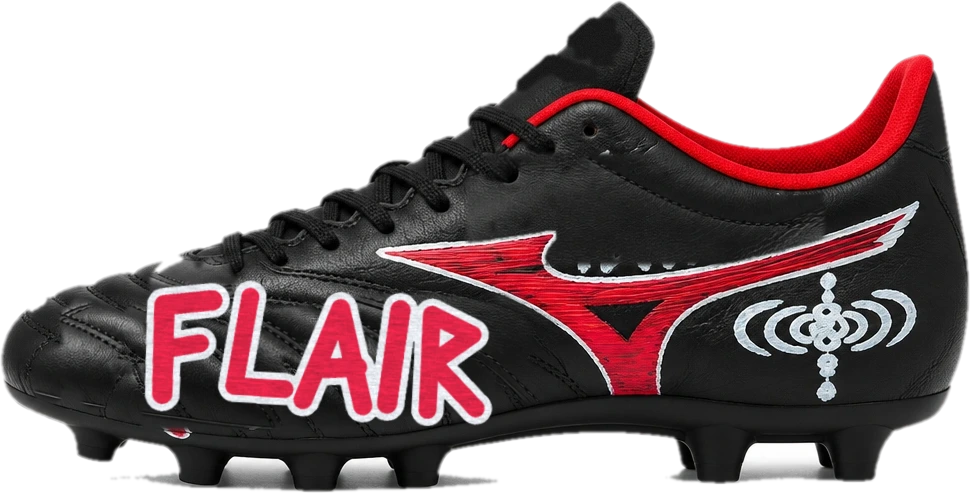
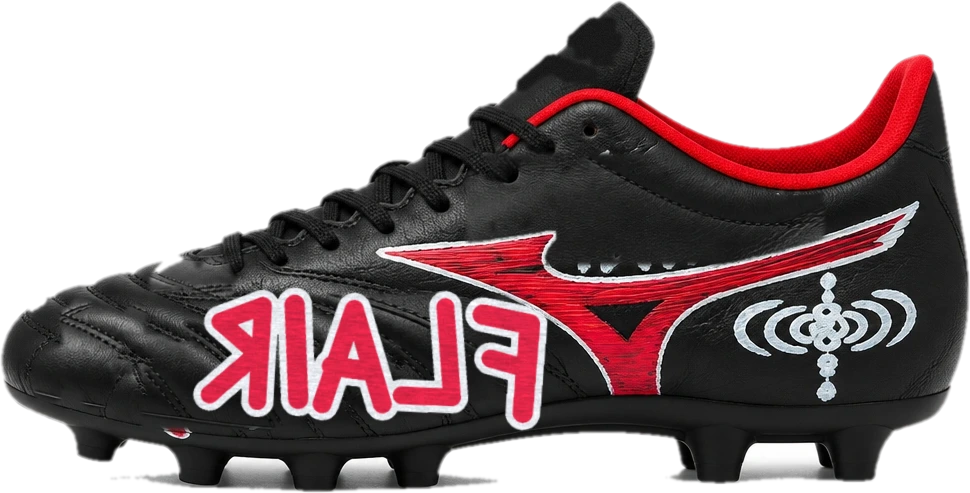
Collabs: Mizuno outer sides face out, runbird over GOD, burgundy/red toes, yellow green-shoe lining
Claude-Session: https://claude.ai/code/session_0114D3hwBVCmsXTQfgBtgPvQ

Changed region(s): [[0.1237, 0.5477, 0.5876, 0.8824]]

diff --git a/site/public/collabs/mizuno/viewer.html b/site/public/collabs/mizuno/viewer.html
@@ -62,7 +62,7 @@
 <div id="osd"><span>SONDR × Mizuno Morelia Neo IV</span><span>By D·Hardin</span><span data-k="side">1 of 1</span></div>
 <button id="swap" type="button">Switch shoe</button>
 <div id="hint"></div>
-<script>window.SHOE_TEX={};window.SHOE_PLAIN={"len": 1.9012789726257324, "rot": 3.14159, "mirror": true, "x": -6.705713556227215e-05, "y": 0.23176820060637965, "z": -2.6492328972707924e-06, "decals": [{"tex": "art/red_tongue.png", "n": [-0.75, 0.66, 0], "c": [0.06, 0.33, -0.035], "w": 0.2, "h": 0.2, "depth": 0.08, "dot": 0.3, "r": [0.4639892578125, 0.46337890625, 0.5970458984375, 0.99951171875]}, {"tex": "art/heel_dhruv.png", "axis": "x", "n": [1, 0, 0], "c": [0.9, 0.355, -0.035], "w": 0.27, "h": 0.075, "r": [0.7642822265625, 0.78173828125, 0.9041748046875, 0.99951171875]}, {"tex": "art/red_dh.png", "n": [-0.25, 0.97, 0], "c": [-0.485, 0.005, -0.035], "w": 0.13, "h": 0.068, "depth": 0.06, "dot": 0.3, "r": [0.5992431640625, 0.73876953125, 0.7620849609375, 0.99951171875]}, {"tex": "art/red_vamp_sigs_bold.png", "n": [-0.15, 0.99, 0], "c": [-0.585, -0.025, -0.035], "w": 0.21, "h": 0.14, "depth": 0.06, "dot": 0.3, "r": [0.1427001953125, 0.36669921875, 0.3865966796875, 0.99951171875]}, {"tex": "art/red_cross.png", "axis": "x", "n": [1, 0, 0], "c": [0.92, 0.02, -0.03], "w": 0.29, "h": 0.54, "r": [0.3887939453125, 0.45361328125, 0.4617919921875, 0.99951171875]}, {"tex": "art/red_skull_toe.png", "n": [-0.45, 0.89, 0], "c": [-0.83, -0.075, -0.035], "w": 0.2, "h": 0.22, "depth": 0.07, "dot": 0.25, "r": [0.0001220703125, 0.31201171875, 0.1405029296875, 0.99951171875]}], "lining": [0.07, 0.07, 0.07], "zc": -0.04, "atlas": "art/red_atlas.webp"};window.SHOE_PLAINS=[{"len": 1.9012789726257324, "rot": 3.14159, "mirror": true, "x": -6.705713556227215e-05, "y": 0.23176820060637965, "z": -2.6492328972707924e-06, "decals": [{"tex": "art/red_tongue.png", "n": [-0.75, 0.66, 0], "c": [0.06, 0.33, -0.035], "w": 0.2, "h": 0.2, "depth": 0.08, "dot": 0.3, "r": [0.4639892578125, 0.46337890625, 0.5970458984375, 0.99951171875]}, {"tex": "art/heel_dhruv.png", "axis": "x", "n": [1, 0, 0], "c": [0.9, 0.355, -0.035], "w": 0.27, "h": 0.075, "r": [0.7642822265625, 0.78173828125, 0.9041748046875, 0.99951171875]}, {"tex": "art/red_dh.png", "n": [-0.25, 0.97, 0], "c": [-0.485, 0.005, -0.035], "w": 0.13, "h": 0.068, "depth": 0.06, "dot": 0.3, "r": [0.5992431640625, 0.73876953125, 0.7620849609375, 0.99951171875]}, {"tex": "art/red_vamp_sigs_bold.png", "n": [-0.15, 0.99, 0], "c": [-0.585, -0.025, -0.035], "w": 0.21, "h": 0.14, "depth": 0.06, "dot": 0.3, "r": [0.1427001953125, 0.36669921875, 0.3865966796875, 0.99951171875]}, {"tex": "art/red_cross.png", "axis": "x", "n": [1, 0, 0], "c": [0.92, 0.02, -0.03], "w": 0.29, "h": 0.54, "r": [0.3887939453125, 0.45361328125, 0.4617919921875, 0.99951171875]}, {"tex": "art/red_skull_toe.png", "n": [-0.45, 0.89, 0], "c": [-0.83, -0.075, -0.035], "w": 0.2, "h": 0.22, "depth": 0.07, "dot": 0.25, "r": [0.0001220703125, 0.31201171875, 0.1405029296875, 0.99951171875]}], "lining": [0.07, 0.07, 0.07], "zc": -0.04, "atlas": "art/red_atlas.webp"}, {"len": 1.9012789726257324, "rot": 3.14159, "mirror": false, "x": -6.705714962128253e-05, "y": 0.23176820060637965, "z": 2.6488770129724855e-06, "decals": [{"tex": "art/green_tongue.png", "n": [-0.75, 0.66, 0], "c": [0.06, 0.33, -0.035], "w": 0.2, "h": 0.2, "depth": 0.08, "dot": 0.3, "r": [0.0001220703125, 0.31689453125, 0.1766357421875, 0.99951171875]}, {"tex": "art/heel_hardin.png", "axis": "x", "n": [1, 0, 0], "c": [0.9, 0.355, -0.035], "w": 0.27, "h": 0.075, "r": [0.6507568359375, 0.78173828125, 0.8140869140625, 0.99951171875]}, {"tex": "art/green_dh.png", "n": [-0.25, 0.97, 0], "c": [-0.485, 0.005, -0.035], "w": 0.13, "h": 0.068, "depth": 0.06, "dot": 0.3, "r": [0.5120849609375, 0.71533203125, 0.6485595703125, 0.99951171875]}, {"tex": "art/green_vamp_sigs_bold.png", "n": [-0.15, 0.99, 0], "c": [-0.585, -0.025, -0.035], "w": 0.21, "h": 0.14, "depth": 0.06, "dot": 0.3, "r": [0.1788330078125, 0.36669921875, 0.4227294921875, 0.99951171875]}, {"tex": "art/green_om_bold.png", "axis": "x", "n": [1, 0, 0], "c": [0.92, 0.03, -0.03], "w": 0.29, "h": 0.5, "r": [0.4249267578125, 0.61083984375, 0.5098876953125, 0.99951171875]}], "lining": [0.07, 0.07, 0.07], "zc": -0.04, "atlas": "art/green_atlas.webp"}];window.SHOE_GLB_URLS=["boot.glb","boot.glb"];window.SHOE_PAIR_DARK=true;window.SHOE_ART=[{"pz": "art/god.webp", "nz": "art/flair.webp", "range": [-0.951, 0.951, -0.441, 0.447], "toeFade": [-5, -4.9], "darkStuds": 1, "toeRed": [-0.72, -0.66]}, {"pz": "art/rings.webp", "nz": "art/sondr.webp", "range": [-0.951, 0.951, -0.441, 0.447], "toeFade": [-5, -4.9], "darkStuds": 1}];</script>
+<script>window.SHOE_TEX={};window.SHOE_PLAIN={"len": 1.9012789726257324, "rot": 3.14159, "mirror": true, "x": -6.705713556227215e-05, "y": 0.23176820060637965, "z": -2.6492328972707924e-06, "decals": [{"tex": "art/red_tongue.png", "n": [-0.75, 0.66, 0], "c": [0.06, 0.33, -0.035], "w": 0.2, "h": 0.2, "depth": 0.08, "dot": 0.3, "r": [0.4639892578125, 0.46337890625, 0.5970458984375, 0.99951171875]}, {"tex": "art/heel_dhruv.png", "axis": "x", "n": [1, 0, 0], "c": [0.9, 0.355, -0.035], "w": 0.27, "h": 0.075, "r": [0.7642822265625, 0.78173828125, 0.9041748046875, 0.99951171875]}, {"tex": "art/red_dh.png", "n": [-0.25, 0.97, 0], "c": [-0.485, 0.005, -0.035], "w": 0.13, "h": 0.068, "depth": 0.06, "dot": 0.3, "r": [0.5992431640625, 0.73876953125, 0.7620849609375, 0.99951171875]}, {"tex": "art/red_vamp_sigs_bold.png", "n": [-0.15, 0.99, 0], "c": [-0.585, -0.025, -0.035], "w": 0.21, "h": 0.14, "depth": 0.06, "dot": 0.3, "r": [0.1427001953125, 0.36669921875, 0.3865966796875, 0.99951171875]}, {"tex": "art/red_cross.png", "axis": "x", "n": [1, 0, 0], "c": [0.92, 0.02, -0.03], "w": 0.29, "h": 0.54, "r": [0.3887939453125, 0.45361328125, 0.4617919921875, 0.99951171875]}, {"tex": "art/red_skull_toe.png", "n": [-0.45, 0.89, 0], "c": [-0.83, -0.075, -0.035], "w": 0.2, "h": 0.22, "depth": 0.07, "dot": 0.25, "r": [0.0001220703125, 0.31201171875, 0.1405029296875, 0.99951171875]}], "lining": [0.07, 0.07, 0.07], "zc": -0.04, "atlas": "art/red_atlas.webp"};window.SHOE_PLAINS=[{"len": 1.9012789726257324, "rot": 3.14159, "mirror": true, "x": -6.705713556227215e-05, "y": 0.23176820060637965, "z": -2.6492328972707924e-06, "decals": [{"tex": "art/red_tongue.png", "n": [-0.75, 0.66, 0], "c": [0.06, 0.33, -0.035], "w": 0.2, "h": 0.2, "depth": 0.08, "dot": 0.3, "r": [0.4639892578125, 0.46337890625, 0.5970458984375, 0.99951171875]}, {"tex": "art/heel_dhruv.png", "axis": "x", "n": [1, 0, 0], "c": [0.9, 0.355, -0.035], "w": 0.27, "h": 0.075, "r": [0.7642822265625, 0.78173828125, 0.9041748046875, 0.99951171875]}, {"tex": "art/red_dh.png", "n": [-0.25, 0.97, 0], "c": [-0.485, 0.005, -0.035], "w": 0.13, "h": 0.068, "depth": 0.06, "dot": 0.3, "r": [0.5992431640625, 0.73876953125, 0.7620849609375, 0.99951171875]}, {"tex": "art/red_vamp_sigs_bold.png", "n": [-0.15, 0.99, 0], "c": [-0.585, -0.025, -0.035], "w": 0.21, "h": 0.14, "depth": 0.06, "dot": 0.3, "r": [0.1427001953125, 0.36669921875, 0.3865966796875, 0.99951171875]}, {"tex": "art/red_cross.png", "axis": "x", "n": [1, 0, 0], "c": [0.92, 0.02, -0.03], "w": 0.29, "h": 0.54, "r": [0.3887939453125, 0.45361328125, 0.4617919921875, 0.99951171875]}, {"tex": "art/red_skull_toe.png", "n": [-0.45, 0.89, 0], "c": [-0.83, -0.075, -0.035], "w": 0.2, "h": 0.22, "depth": 0.07, "dot": 0.25, "r": [0.0001220703125, 0.31201171875, 0.1405029296875, 0.99951171875]}], "lining": [0.07, 0.07, 0.07], "zc": -0.04, "atlas": "art/red_atlas.webp"}, {"len": 1.9012789726257324, "rot": 3.14159, "mirror": false, "x": -6.705714962128253e-05, "y": 0.23176820060637965, "z": 2.6488770129724855e-06, "decals": [{"tex": "art/green_tongue.png", "n": [-0.75, 0.66, 0], "c": [0.06, 0.33, -0.035], "w": 0.2, "h": 0.2, "depth": 0.08, "dot": 0.3, "r": [0.0001220703125, 0.31689453125, 0.1766357421875, 0.99951171875]}, {"tex": "art/heel_hardin.png", "axis": "x", "n": [1, 0, 0], "c": [0.9, 0.355, -0.035], "w": 0.27, "h": 0.075, "r": [0.6507568359375, 0.78173828125, 0.8140869140625, 0.99951171875]}, {"tex": "art/green_dh.png", "n": [-0.25, 0.97, 0], "c": [-0.485, 0.005, -0.035], "w": 0.13, "h": 0.068, "depth": 0.06, "dot": 0.3, "r": [0.5120849609375, 0.71533203125, 0.6485595703125, 0.99951171875]}, {"tex": "art/green_vamp_sigs_bold.png", "n": [-0.15, 0.99, 0], "c": [-0.585, -0.025, -0.035], "w": 0.21, "h": 0.14, "depth": 0.06, "dot": 0.3, "r": [0.1788330078125, 0.36669921875, 0.4227294921875, 0.99951171875]}, {"tex": "art/green_om_bold.png", "axis": "x", "n": [1, 0, 0], "c": [0.92, 0.03, -0.03], "w": 0.29, "h": 0.5, "r": [0.4249267578125, 0.61083984375, 0.5098876953125, 0.99951171875]}], "lining": [0.6, 0.48, 0.1], "zc": -0.04, "atlas": "art/green_atlas.webp"}];window.SHOE_GLB_URLS=["boot.glb","boot.glb"];window.SHOE_PAIR_DARK=true;window.SHOE_ART=[{"pz": "art/flair.webp", "nz": "art/god.webp", "range": [-0.951, 0.951, -0.441, 0.447], "toeFade": [-5, -4.9], "darkStuds": 1, "toeRed": [-0.72, -0.66], "toeCol": [0.3, 0.018, 0.045]}, {"pz": "art/rings.webp", "nz": "art/sondr.webp", "range": [-0.951, 0.951, -0.441, 0.447], "toeFade": [-5, -4.9], "darkStuds": 1, "toeRed": [-0.53, -0.47], "toeCol": [0.52, 0.03, 0.035], "liningYellow": 1}];</script>
 <script src="viewer.js"></script>
 <script>(function(){function fit(){var c=window.__shoe&&__shoe.camera;if(!c)return false;var a=innerWidth/Math.max(1,innerHeight);c.zoom=Math.min(1,a/1.4);c.updateProjectionMatrix();return true}var i=setInterval(function(){if(fit())clearInterval(i)},300);addEventListener("resize",function(){setTimeout(fit,50)});})();</script>
 </body>

diff --git a/site/public/collabs/mizuno/viewer.js b/site/public/collabs/mizuno/viewer.js
@@ -4286,8 +4286,9 @@ uniform sampler2D uArtP, uArtN;`+Object.keys(h).filter(f=>h[f]).map(f=>" uniform
     diffuseColor.rgb = mix(diffuseColor.rgb, ap.rgb, wp); diffuseColor.rgb = mix(diffuseColor.rgb, an.rgb, wn);${s.toeRed?` { float wob = 0.03 * sin(vArtPos.z * 38.0 + 1.3) + 0.018 * sin(vArtPos.y * 61.0 + vArtPos.z * 23.0) + 0.01 * sin(vArtPos.z * 140.0); float tw = (1.0 - smoothstep(${s.toeRed[0].toFixed(3)}, ${s.toeRed[1].toFixed(3)}, vArtPos.x + wob)) * smoothstep(-0.34, -0.29, vArtPos.y) * step(0.0, dot(N, N));
       float l = dot(base0, vec3(0.299, 0.587, 0.114)); float g = fract(sin(dot(floor(vArtPos.xz * 900.0), vec2(12.9898, 78.233))) * 43758.5453);
       float st = 0.5 + 0.5 * sin(vArtPos.z * 210.0 + vArtPos.x * 35.0 + sin(vArtPos.x * 90.0) * 2.0 + g * 2.5);
-      vec3 mk = vec3(0.52, 0.03, 0.035) * (0.62 + 4.5 * l) * (0.88 + 0.14 * st) * (0.92 + 0.12 * g);
-      diffuseColor.rgb = mix(diffuseColor.rgb, min(mk, vec3(0.95, 0.2, 0.2)), tw); }`:""}${s.darkStuds?" diffuseColor.rgb *= mix(0.12, 1.0, smoothstep(-0.40, -0.35, vArtPos.y));":""}
+      vec3 mk = vec3(${(s.toeCol||[.52,.03,.035]).map(f=>f.toFixed(3)).join(",")}) * (0.62 + 4.5 * l) * (0.88 + 0.14 * st) * (0.92 + 0.12 * g);
+      diffuseColor.rgb = mix(diffuseColor.rgb, min(mk, vec3(0.95, 0.2, 0.2)), tw); }`:""}${s.liningYellow?` { vec3 c = diffuseColor.rgb; float inw = step((vArtPos.z - zc) * N.z, 0.0); float red = smoothstep(0.08, 0.25, c.r - max(c.g, c.b)) * max(inw * step(-0.3, vArtPos.y), step(0.22, vArtPos.y)) * step(-0.35, vArtPos.x);
+      float l = max(c.r, 0.05); diffuseColor.rgb = mix(c, vec3(0.93, 0.76, 0.16) * (0.35 + 0.9 * l), red); }`:""}${s.darkStuds?" diffuseColor.rgb *= mix(0.12, 1.0, smoothstep(-0.40, -0.35, vArtPos.y));":""}
 ${h.uTag?`    vec3 tn = vec3(-0.66463, 0.74703, 0.01455), ty = vec3(0.74711, 0.6647, 0.0);
     float tu = (vArtPos.z + 0.142) / 0.284, tv = (dot(vArtPos, ty) - 0.322) / 0.133, td = dot(vArtPos, tn);
     if (tu > 0.0 && tu < 1.0 && tv > 0.0 && tv < 1.0 && td > 0.045 && td < 0.13 && dot(N, tn) > 0.45) { vec4 tg = texture2D(uTag, vec2(tu, tv)); diffuseColor.rgb = mix(diffuseColor.rgb, tg.rgb, tg.a); }`:""}

diff --git a/site/CLAUDE.md b/site/CLAUDE.md
@@ -127,6 +127,7 @@ If a slot says "(empty)", build that slot's default and mark it "pending" here.
 - Step 4w: Chuck: blue collar opened up (generator had capped it) with a plain insole and lining inside both shoes; the red foxing stripe is one colour all round and carried cleanly across each toe (shader, toe band at local x < -0.6).
 - Step 4x: Mizuno pair (SONDR × Mizuno Morelia Neo IV) at public/collabs/mizuno/: one generated boot mesh (boot.glb) used for both feet, the left (red) mirrored; four painted sides projected per shoe (red: GOD / FLAIR, green: SONDR / rings), side art kept off the inner collar and heel curve; decals from his real ink (YOU ARE / BADDE tongue lifts, D·H marks) plus pen-drawn DHRUV / HARDIN heels, Om on the green heel, and the D·Hardin + Sondr Apparel signatures on the vamps. Builder: /home/claude/miz/viewer/build.py.
 - Step 4y: Mizuno tweaks: all lettering redrawn in the gritty SONDR logo caps (GOD, 6, FLAIR, SONDR, BE: REAL on the sides; bold yellow DHRUV / HARDIN on the heels), old generated lettering removed and refilled with clean leather from the plain boot (/home/claude/miz/repaint.py); red heel gets a bold green cross filling the heel tab, green heel a bold Om filling it; red toe padding coloured in red marker (shader, toeRed) with his skull centred on it; D·H on the red shoe only at the lace base (side D·H removed); signatures bolder; pair opens on black (SHOE_PAIR_DARK) like the Converse.
+- Step 4z: Mizuno: red shoe is a true left foot with GOD on its outer side (both outer sides face out in the pair; sides mirrored and relettered, MONARCIDA NEO kept readable), Mizuno runbird laid over GOD with a dark keyline; red toe padding burgundy, green toe padding light red; green shoe lining and collar yellow (shader, liningYellow).
 - Step 4v: Chuck Delace is instant and in place: the lace zone of the laced model is discarded in the shader (P.cut profile) and a clean tongue mesh carrying the Mr Sondr drawing is shown instead; no delaced GLBs any more. Heel tag and back seam panel tone-matched and feathered. Collabs perf: every viewer.html pauses its render loop while scrolled off screen (requestAnimationFrame gate in <head>), pixel ratio capped at 1.5. Note: cortez/converse viewer.html + viewer.js were patched by hand for this; re-add the gate if they are rebuilt. Phones: viewers widen the camera on portrait screens (camera.zoom = min(1, aspect/1.4), script at the end of each viewer.html); About disciplines go two by two under 640px.
 - Step 4u: SONDR × Chuck Taylor All Star added as the third pair (public/collabs/chuck/): red.glb/blue.glb (Meshy v7 from the approved inner-side drawings, relief smoothed, red's misplaced top eyelets flattened), side art projected per side (art/*_pz/_nz.webp; vents moved to the base on red, blue patch reads CONVERSE), hand-lettered DINHO (red) / HERE (blue) down the back seam, tongue lettering taken from Dhruv's own photo ink; his D·Hardin + Sondr signatures on each vamp above the toe cap. Delace button (single-shoe view only, bottom left) swaps to viewer_dl.html, keeping the same shoe open. Laced view shows the Mr Sondr faces between the laces (lace ridge height baked into uv1, art drawn only in the valleys); white CONVERSE ALL★STAR heel tag (red_dl/blue_dl.glb: laces pressed flat) showing the Mr Sondr faces on the tongues from his photo. Source pipeline: /home/claude/chuck/viewer/build.py + cfg.json.
 - Step 4t: Cortez rebuilt like the Converse: public/collabs/cortez/ = viewer.html + viewer.js, left.glb/right.glb (Higgsfield Meshy v7 models, one per shoe, from approved hand-drawn product images), red_in.webp (red outer side, projected on local -z), SONDR/D·Hardin signature decals and hand-drawn SONDR logo decals (logo_blue/logo_red). Old Cortez viewer removed. Cortez opens on white, single shoe goes dark; Converse (SHOE_PAIR_DARK) opens dark, single shoe light. Menu: Shoe Collaborations, Projects ordered shortest→longest. Artsy black (yellow title, red titles); Hustler back to white with red arc lettering.
